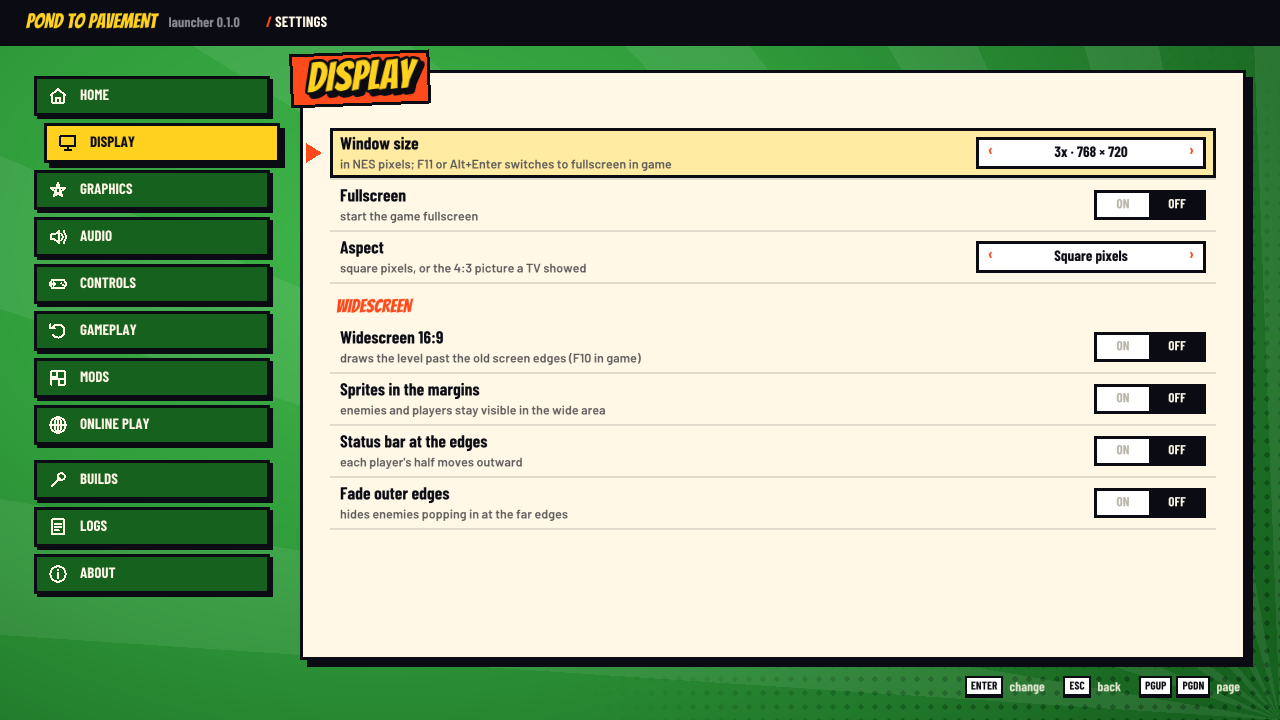
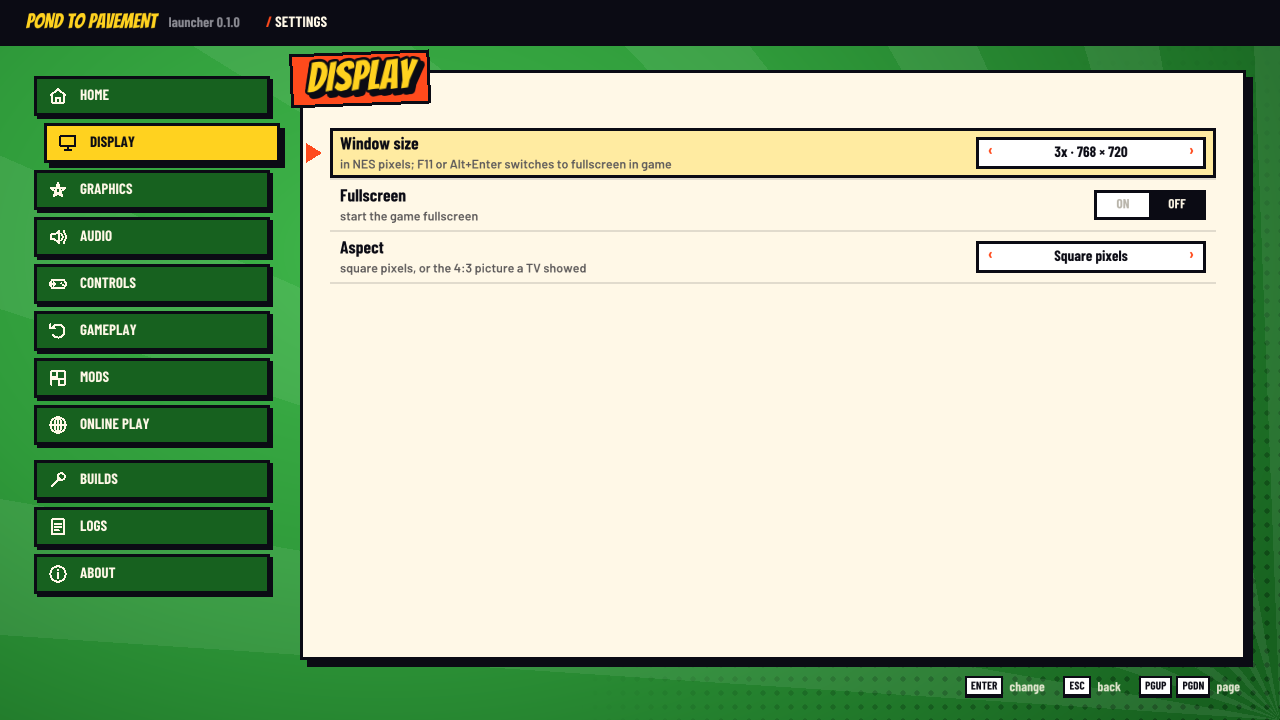
Shelve widescreen for players: hidden in the launcher (Display, Mods), the in-game menu and F10; saved mod_wide* load as off and are dropped on save; developers: BTDD_DEV_WIDESCREEN=1 or --mod widescreen (mods_shelved)

Changed region(s): [[0.25, 0.3972, 0.5, 0.7333], [0.8438, 0.4583, 0.9688, 0.7333]]

diff --git a/src/launcher/screens.c b/src/launcher/screens.c
@@ -568,12 +568,14 @@ static void draw_display(void)
         c->fullscreen = !c->fullscreen, ch = 1;
     if ((d = row_choice("Aspect", "square pixels, or the 4:3 picture a TV showed", c->aspect ? "4:3 TV" : "Square pixels", 0)))
         c->aspect = !c->aspect, ch = 1;
-    RY += 8;
-    group("WIDESCREEN");
-    ch |= mod_toggle_row("widescreen", "Widescreen 16:9", "draws the level past the old screen edges (F10 in game)");
-    ch |= mod_toggle_row("widesprites", "Sprites in the margins", "enemies and players stay visible in the wide area");
-    ch |= mod_toggle_row("widehud", "Status bar at the edges", "each player's half moves outward");
-    ch |= mod_toggle_row("widefade", "Fade outer edges", "hides enemies popping in at the far edges");
+    if (!mods_shelved(mods_find("widescreen"))) { /* M9 widescreen is shelved for players: developers only */
+        RY += 8;
+        group("WIDESCREEN");
+        ch |= mod_toggle_row("widescreen", "Widescreen 16:9", "draws the level past the old screen edges (F10 in game)");
+        ch |= mod_toggle_row("widesprites", "Sprites in the margins", "enemies and players stay visible in the wide area");
+        ch |= mod_toggle_row("widehud", "Status bar at the edges", "each player's half moves outward");
+        ch |= mod_toggle_row("widefade", "Fade outer edges", "hides enemies popping in at the far edges");
+    }
     if (ch)
         app_save_settings(a);
 }
@@ -734,7 +736,7 @@ static void draw_controls(void)
         }
         kit_text_wrap(FONT_BODY, 15, PX + 262, RY + 2, 600, 18,
                       "Enter on a key, then press the new key (Esc keeps the old one). In game: F6/F7 save/load, "
-                      "Backspace rewind, Tab fast forward, F10 widescreen.", C_INK_DIM, 1);
+                      "Backspace rewind, Tab fast forward.", C_INK_DIM, 1);
     }
     /* key capture */
     if (a->capture && U.in->key) {
@@ -822,7 +824,7 @@ static void draw_mods(void)
         float cw = (PR - PX - 16) / 2, x = PX + (float)(k % 2) * (cw + 16), y = RY + (float)(k / 2) * 112;
         It it;
         int on = mods_enabled(i);
-        if (!strncmp(m->id, "cheat_", 6))
+        if (!strncmp(m->id, "cheat_", 6) || mods_shelved(i))
             continue;
         it = item(x, y, cw, 100);
         if (on)
@@ -1216,7 +1218,7 @@ static void draw_ingame(void)
     menu_begin(&m, "SETTINGS");
     menu_add(&m, ITEM_ACTION, 1, "Resume", "", "Esc closes this menu");
     menu_add(&m, ITEM_PAGE, 2, "Save states", "", "");
-    menu_add(&m, ITEM_PAGE, 3, "Display", "", "window, fullscreen, aspect, widescreen");
+    menu_add(&m, ITEM_PAGE, 3, "Display", "", "window size, fullscreen, aspect");
     menu_add(&m, ITEM_PAGE, 4, "Graphics", "", "");
     menu_add(&m, ITEM_PAGE, 5, "Audio", "", "");
     menu_add(&m, ITEM_PAGE, 6, "Controls", "", "");

diff --git a/src/platform/play_main.c b/src/platform/play_main.c
@@ -8,7 +8,8 @@
  * players 1 and 2 (east button = A, south button = B, Back = Select, Start, d-pad or left stick).
  * Hotkeys: Esc settings menu (gamepad: Guide, or Back+Start), P pause, F1 reset (Ctrl+F1 power cycle), F2 square pixels / 4:3, F3 filter
  * (nearest / sharp / bilinear), F4 scanlines, F5 redefine keys, F11 or Alt+Enter fullscreen, F12 screenshot.
- * Mods (M7, docs/M7_MODS.md): F8 no sprite flicker, F9 starting lives, F10 widescreen (M9) (mod_* keys in btdd.cfg, --mod ID[=N]).
+ * Mods (M7, docs/M7_MODS.md): F8 no sprite flicker, F9 starting lives (mod_* keys in btdd.cfg, --mod ID[=N]); F10 widescreen
+ * only for developers (M9 is shelved: BTDD_DEV_WIDESCREEN=1 or --mod widescreen).
  * States (M8): F6 save / F7 load the current slot, 0-9 or Shift+F6 / Shift+F7 pick the slot (10 slots, in
  * <settings folder>\states\<ROM SHA-1>); hold Backspace to rewind (rewind_seconds of history, sound muted),
  * hold Tab to fast-forward (ff_speed x; one frame's sound in ff_speed is played, so pacing stays on the sound
@@ -840,7 +841,7 @@ static void build_page(Menu *m, PlayCtx *c)
 #ifdef BTDD_HAVE_MODS
         for (i = 0; i < mods_count() && i < MENU_MAX_ITEMS - 4; i++) {
             const ModDef *d = mods_def(i);
-            if ((strncmp(d->id, "cheat_", 6) == 0) != (m->page == PG_CHEATS))
+            if ((strncmp(d->id, "cheat_", 6) == 0) != (m->page == PG_CHEATS) || mods_shelved(i))
                 continue;
             if (d->value_min != d->value_max && mods_enabled(i))
                 snprintf(v, sizeof v, "%d", mods_value(i));
@@ -1474,8 +1475,8 @@ int main(int argc, char **argv)
                     toggle_mod("nolimit", &cfg, have_cfg);
                 } else if (ev.key.key == SDLK_F9) {
                     toggle_mod("lives", &cfg, have_cfg);
-                } else if (ev.key.key == SDLK_F10) {
-                    toggle_mod("widescreen", &cfg, have_cfg);
+                } else if (ev.key.key == SDLK_F10 && !mods_shelved(mods_find("widescreen"))) {
+                    toggle_mod("widescreen", &cfg, have_cfg); /* shelved for players (M9): developers only */
                 } else if (ev.key.key == SDLK_F12) {
                     save_screenshot(&cfg);
                 } else if ((ev.key.key == SDLK_F6 || ev.key.key == SDLK_F7) && !net_on) {

diff --git a/src/mods/mods.c b/src/mods/mods.c
@@ -225,6 +225,24 @@ void mods_attach(Nes *nes)
     nes->cpu.pc_hook = any ? on_pc : NULL;
 }
 
+/* ---- shelved mods (M9 widescreen, 2026-11-25) ---- */
+
+static int dev_wide = -1; /* -1 = not looked up yet */
+
+static int dev_widescreen(void)
+{
+    if (dev_wide < 0) {
+        const char *e = getenv("BTDD_DEV_WIDESCREEN");
+        dev_wide = e && e[0] && strcmp(e, "0") != 0;
+    }
+    return dev_wide;
+}
+
+int mods_shelved(int i)
+{
+    return i >= 0 && i < n_mods && !strncmp(all[i]->id, "wide", 4) && !dev_widescreen();
+}
+
 /* ---- settings ---- */
 
 static int parse_value(const ModDef *d, const char *v, int *on, int *value)
@@ -262,6 +280,8 @@ int mods_apply_setting(const char *key, const char *value)
     r = parse_value(all[i], value, &on, &v);
     if (r < 0)
         return 1;
+    if (mods_shelved(i)) /* saved settings never turn a shelved mod on */
+        on = 0;
     mods_enable(i, on);
     if (r == 1)
         mods_set_value(i, v);
@@ -280,6 +300,8 @@ int mods_apply_arg(const char *arg)
     key[4 + len] = 0;
     if (mods_find(key + 4) < 0)
         return -1;
+    if (!strncmp(key + 4, "wide", 4))
+        dev_wide = 1; /* --mod widescreen etc.: the developer way back to the shelved mods */
     mods_apply_setting(key, eq ? eq + 1 : "on");
     return 0;
 }
@@ -290,6 +312,8 @@ void mods_write_settings(FILE *f)
     fprintf(f, "# mods (docs/M7_MODS.md): mod_<id> = on | off, or a number for mods that take one\n");
     for (i = 0; i < n_mods; i++) {
         const ModDef *d = all[i];
+        if (mods_shelved(i))
+            continue; /* not offered, so not written: an old "on" is dropped */
         fprintf(f, "# %s: %s\n", d->id, d->help);
         if (d->value_min == d->value_max)
             fprintf(f, "mod_%s = %s\n", d->id, enabled[i] ? "on" : "off");

diff --git a/src/mods/mods.h b/src/mods/mods.h
@@ -64,6 +64,10 @@ int mods_value(int i);
 void mods_attach(Nes *nes);
 /* Drops pending "after" hooks (call after loading a state or rewinding: their routine frames are gone). */
 void mods_forget_pending(void);
+/* 1 if mod i is shelved: hidden from players and forced off. The M9 widescreen mods (widescreen, widesprites, widehud,
+ * widefade) are shelved since 2026-11-25 until they are rechecked; a developer turns them back on with the environment
+ * variable BTDD_DEV_WIDESCREEN=1 or a --mod argument. Saved settings never enable a shelved mod. */
+int mods_shelved(int i);
 int mods_display_flags(void);            /* MODS_DISPLAY_* of the enabled display mods */
 uint64_t mods_hook_calls(void);          /* hook functions run so far (tests) */
 

diff --git a/README.md b/README.md
@@ -54,8 +54,8 @@ All gates in one command (builds with every compiler found, runs every check, pr
 Player 1: arrows, X = A, Z = B, Right Shift = Select, Enter = Start. Player 2: W/A/S/D, H = A, G = B, T = Select,
 Y = Start. Gamepads work too. Esc opens the settings menu (Guide or Back+Start on a pad; Quit is in it), P pauses, F11 fullscreen, F2 square pixels / 4:3, F12 screenshot,
 F6/F7 save/load state (0-9 pick a slot), hold Backspace to rewind, hold Tab to fast-forward.
-Mods (docs/M7_MODS.md): F8 no sprite flicker, F9 starting lives, F10 widescreen 16:9 (docs/M9_WIDESCREEN.md;
-`mod_*` keys in btdd.cfg, or the settings menu).
+Mods (docs/M7_MODS.md): F8 no sprite flicker, F9 starting lives (`mod_*` keys in btdd.cfg, or the settings menu).
+Widescreen (F10, docs/M9_WIDESCREEN.md) is shelved: developers only, with `BTDD_DEV_WIDESCREEN=1`.
 GPU shader path (prototype, Direct3D 12): `video = gpu` and `shader = sharp | crt | smooth | ...` in btdd.cfg, F3 cycles
 presets; see docs/GRAPHICS_RESEARCH.md.
 Keys, scale and the ROM path are set in `%APPDATA%\btdd\btdd.cfg` (created on first run). Details:

diff --git a/docs/M9_WIDESCREEN.md b/docs/M9_WIDESCREEN.md
@@ -1,5 +1,10 @@
 # M9: widescreen prototype (2026-11-24)
 
+**Shelved (2026-11-25, the user's call):** widescreen is hidden from players until it is rechecked: not in the launcher, the
+in-game menu or the Mods page, F10 does nothing, and a saved `mod_wide* = on` loads as off (and is dropped on the next
+save). The code stays in the tree and its tests still run; developers turn it on with `BTDD_DEV_WIDESCREEN=1` or
+`--mod widescreen` (see `mods_shelved()` in src/mods/mods.c).
+
 A 424x240 picture (16:9 with square pixels): the game's own 256x240 picture in the middle, 84 columns on each
 side drawn by the port. Game logic is unchanged (the game still runs its 256-pixel camera); everything here is a
 display mod. Background: `docs/WIDESCREEN_NOTES.md`, `docs/DATA_FORMATS.md` sections 1-4, 7.

diff --git a/docs/LAUNCHER.md b/docs/LAUNCHER.md
@@ -92,3 +92,6 @@ icons (list in the style sheet); an 8x8 font for the in-game menu; app icon size
   explains UPnP/port status in plain words.
 - **Updates**: optional check against our GitHub releases (our files only), one click to update, settings kept.
 - **Help**: Logs > Save report (user name removed) for when something breaks; nothing is ever sent automatically.
+
+- 2026-11-25: widescreen is shelved (docs/M9_WIDESCREEN.md): the Display page's Widescreen group and the four
+  widescreen mod cards are hidden unless `BTDD_DEV_WIDESCREEN=1`.
